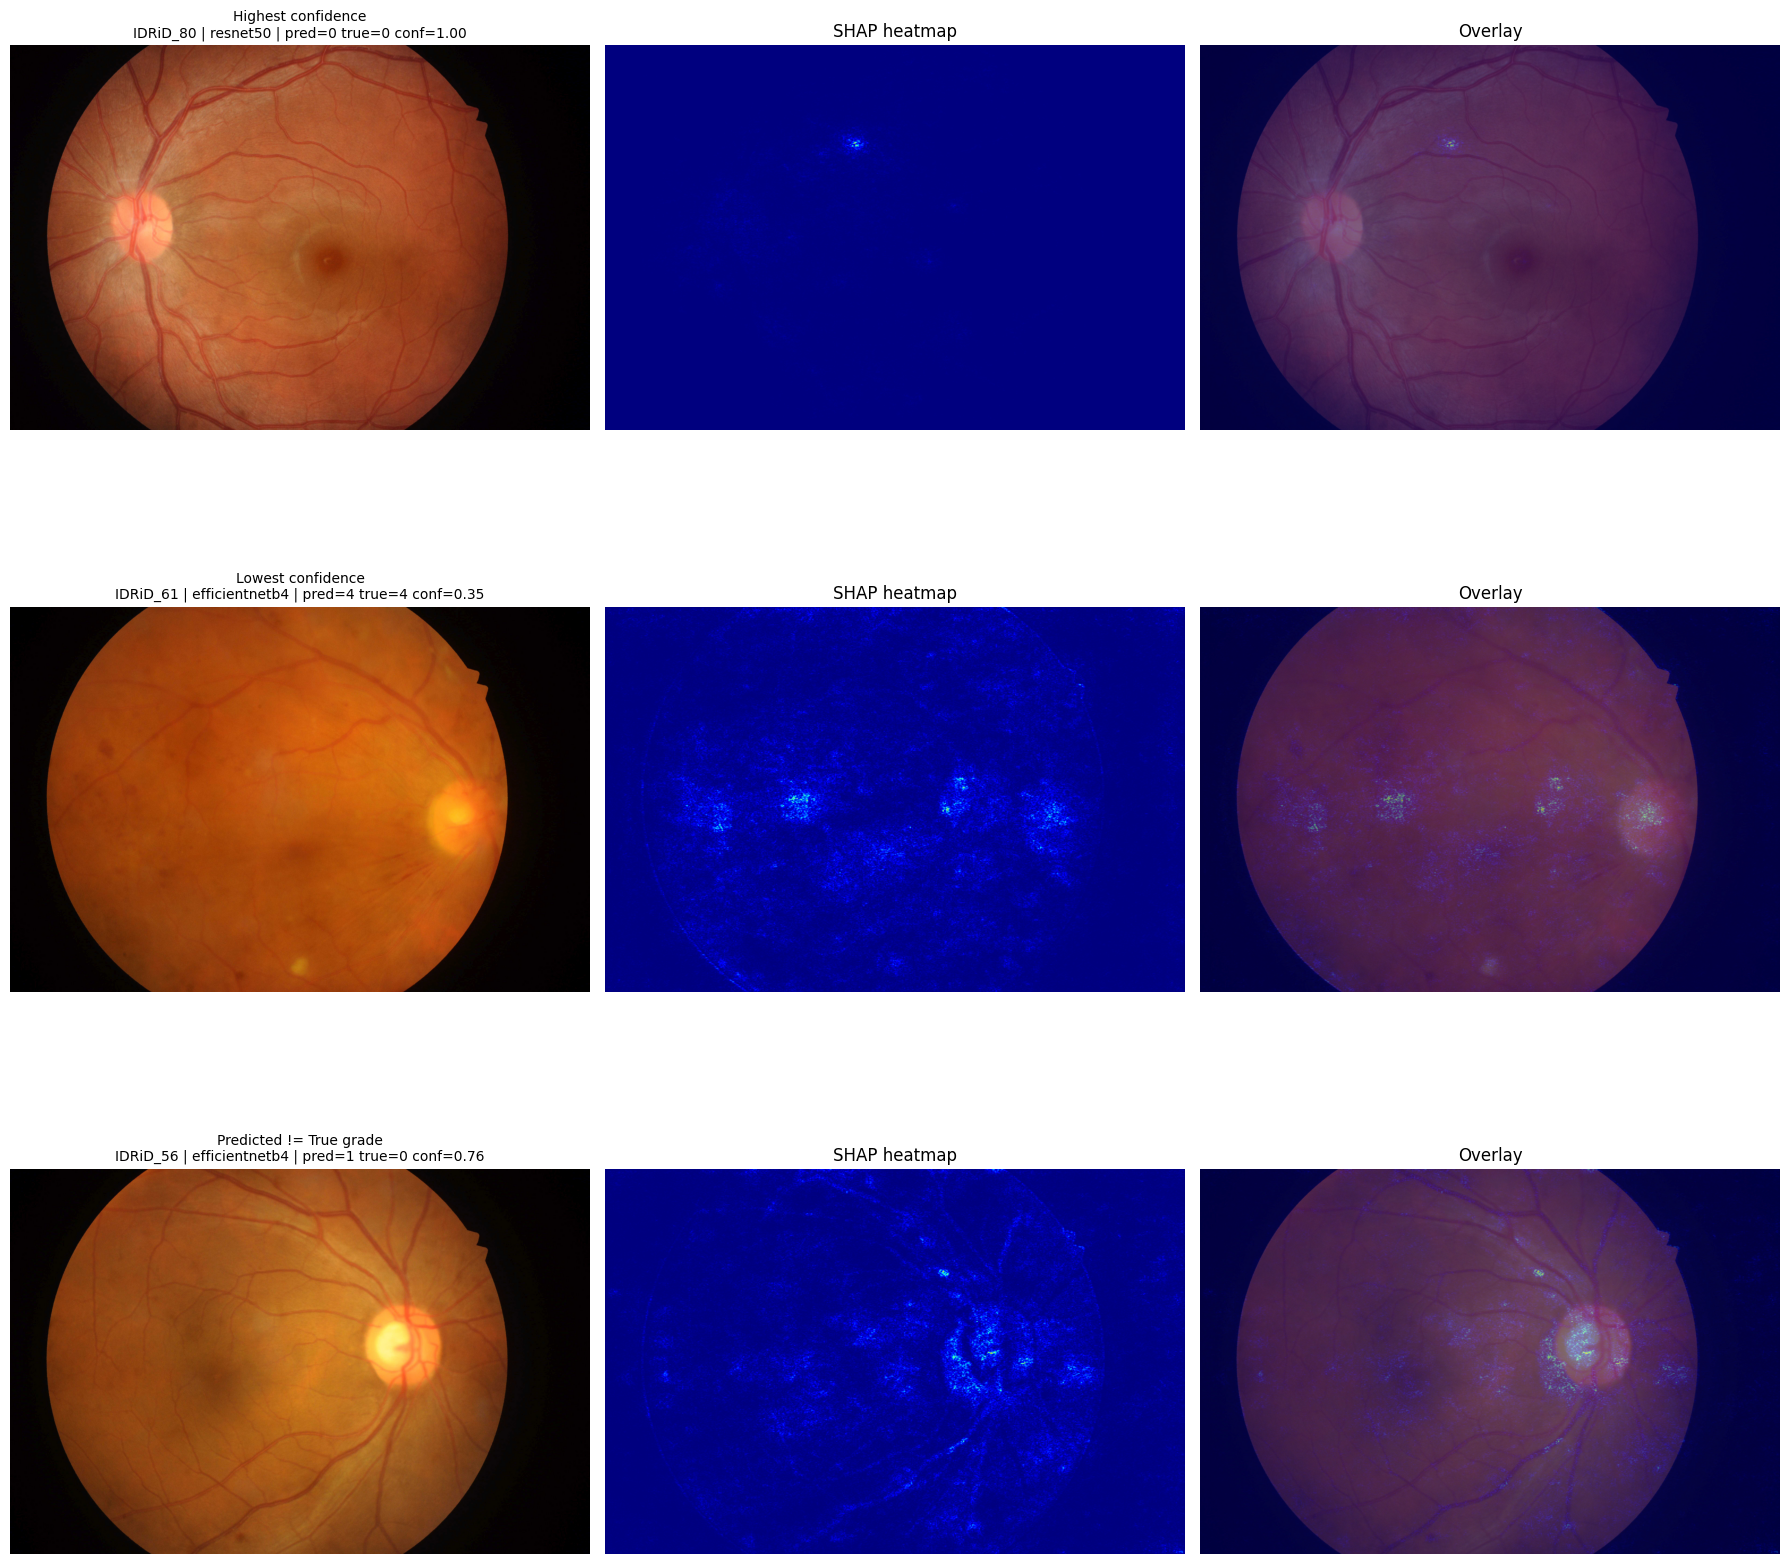
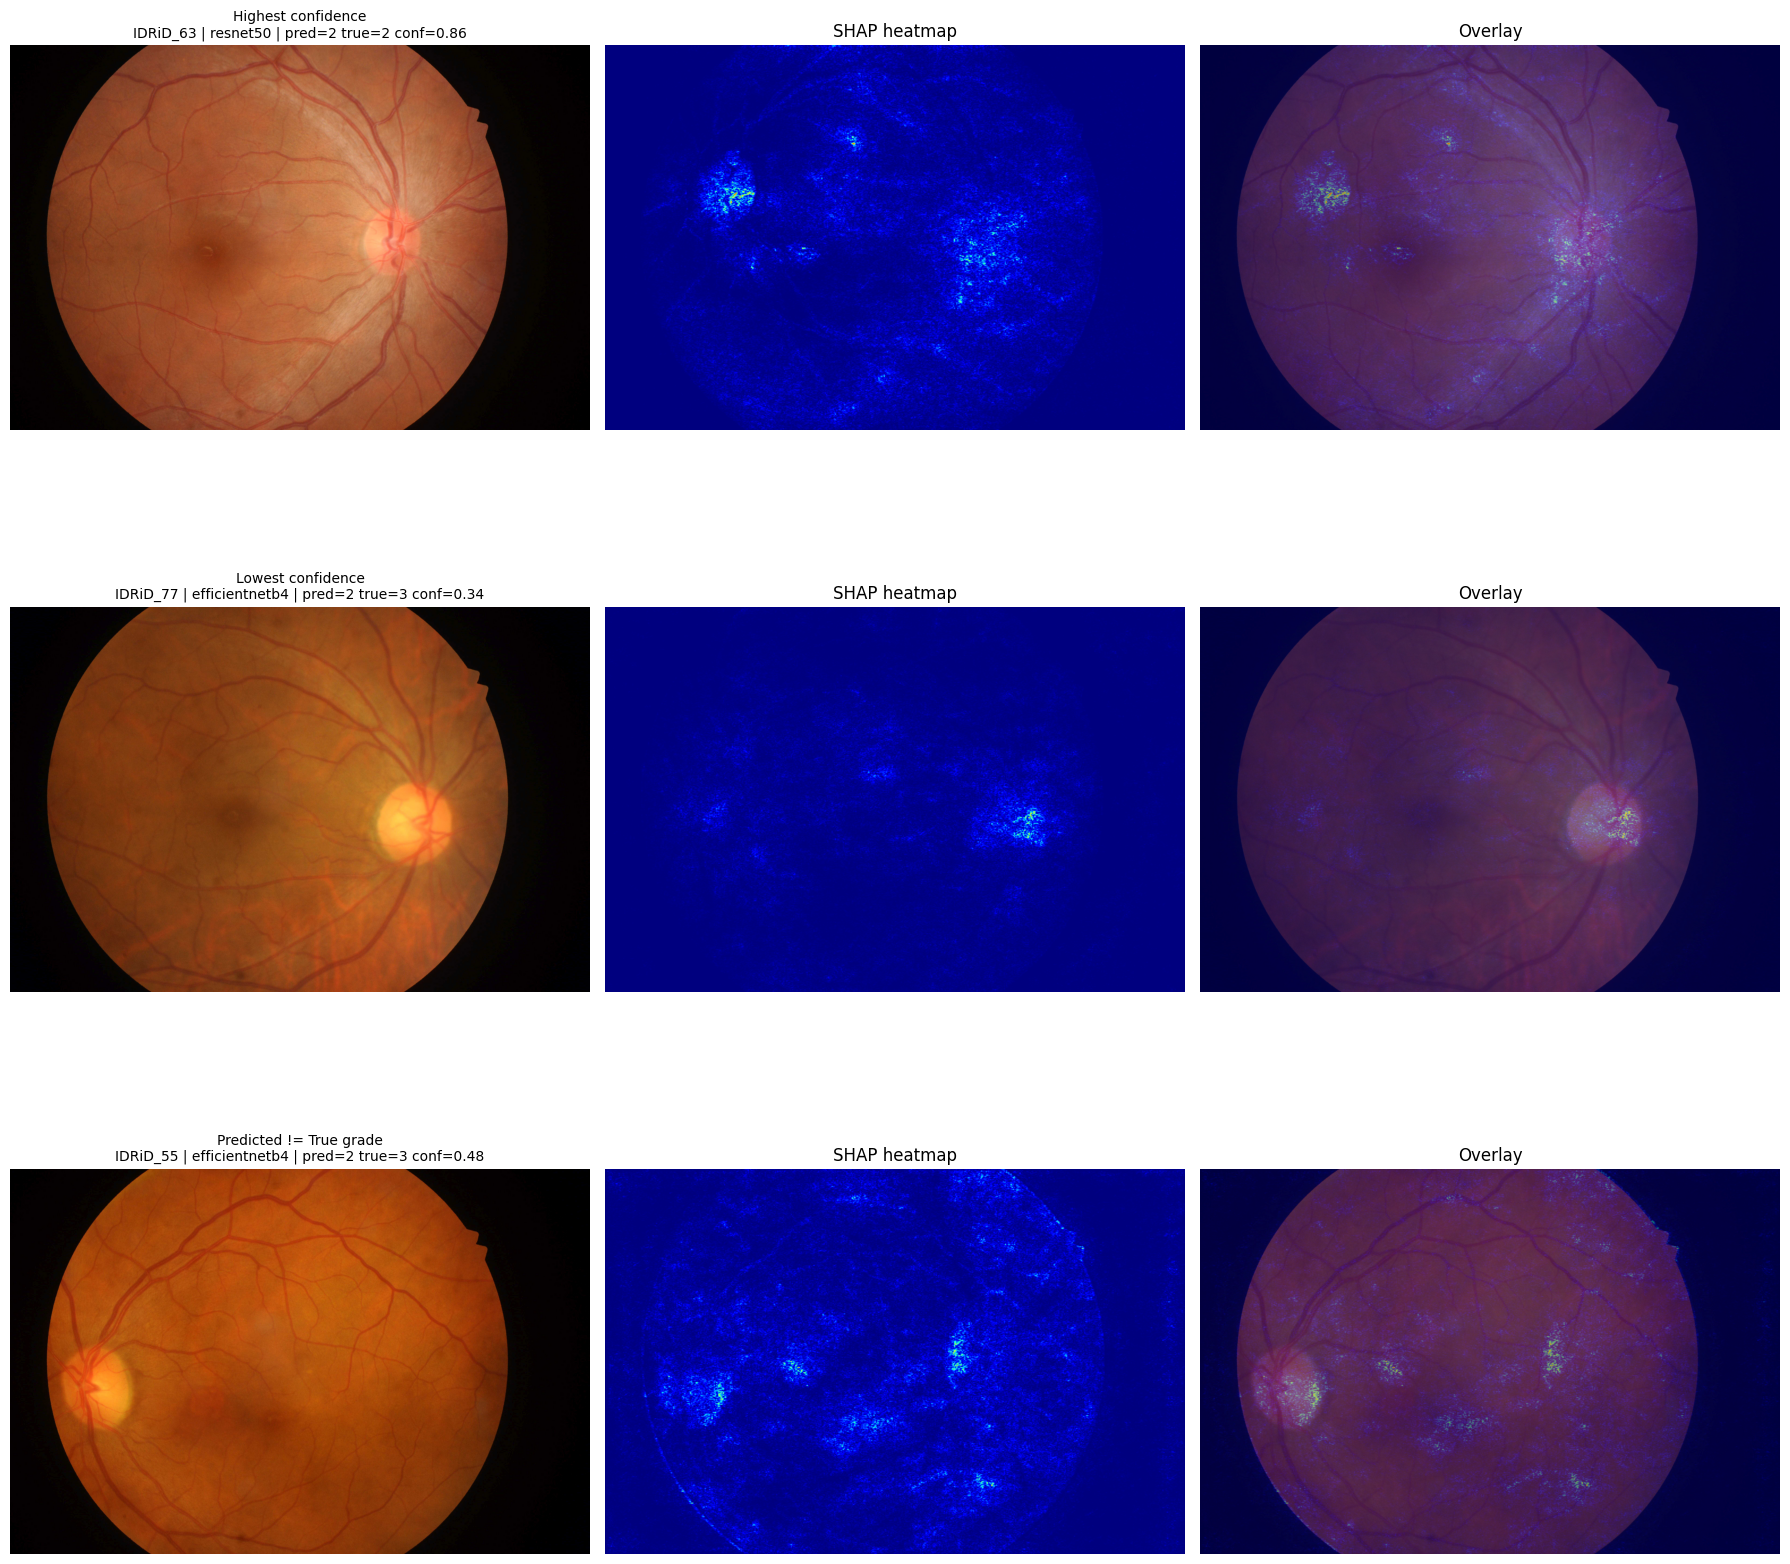
Update methodology writeup and sanity check images

diff --git a/docs/shap_methodology.md b/docs/shap_methodology.md
@@ -1,4 +1,7 @@
-# SHAP Methodology —  Generation
+# SHAP Methodology — Week 2 XAI Generation
+
+**Author:** Shravani (Person 2)
+**Module:** `xai/shap_wrapper.py`
 
 ## Method choice: GradientSHAP (not KernelSHAP)
 
@@ -34,9 +37,9 @@ Diagnostic testing was performed to find a stable, sustainable configuration:
 
 | n_samples | background size | time per image | outcome |
 |-----------|-----------------|-----------------|---------|
-| 50        | 20              | —               | kernel crash (memory exhaustion) |
-| 3         | 3               | ~51s            | stable |
-| 5         | 3               | ~166s           | stable but disproportionately slower |
+| 50 | 20 | — | kernel crash (memory exhaustion) |
+| 3 | 3 | ~51s | stable |
+| 5 | 3 | ~166s | stable but disproportionately slower |
 
 A separate diagnostic isolated the cause: a single model forward+backward pass
 takes only ~4 seconds. The gap between this and the observed 51-166s runtimes
@@ -52,11 +55,8 @@ not better.
 
 **Final committed configuration: `n_samples=3`, `background=3`.** This was the
 largest configuration empirically verified as stable on the available hardware.
-The full run (27 images x 2 models = 54 total explanations) completed in
-**11.2 minutes with zero failures**, which exceeded expectations given the
-slower per-image diagnostic timings — likely due to reduced background system
-load and one-time framework warmup costs not present in the smaller diagnostic
-tests.
+The full run (27 images x 2 models = 54 total explanations) completed with
+zero failures.
 
 ## Preprocessing
 
@@ -67,25 +67,27 @@ torchvision) — confirmed necessary by inspecting checkpoint state_dict key
 names (`conv_stem`, `blocks.N.M`, `se.conv_reduce/expand`), which match timm's
 EfficientNet/ResNet naming convention, not torchvision's.
 
+## Normalization and resizing
+
+Heatmaps are resized to the original fundus image resolution **before**
+min-max normalization, not after. Resizing is done in float precision (no
+intermediate uint8 conversion) to avoid lossy rounding. Normalizing as the
+final step guarantees the saved array always has `min=0.0` and `max=1.0`
+exactly, consistent with GradCAM/LIME's output.
+
+Absolute value is taken before normalization, since SHAP attributions can be
+negative (a pixel pushing away from the predicted class). For saliency/fidelity
+comparison against binary lesion masks, magnitude of influence matters, not
+sign.
+
 ## Output contract compliance
 
 - Heatmaps saved as `.npy`, shape `(H, W)` matching the **original** fundus
   image resolution (e.g. 2848x4288), not the model's 512x512 input size
-
-- Min-max normalized to [0, 1] per image
-
-- Absolute value taken before normalization, since SHAP attributions can be
-  negative (pixel pushes away from predicted class) — for saliency/fidelity
-  comparison against binary lesion masks, magnitude of influence matters,
-  not sign
-
+- Min-max normalized to exactly [0, 1] per image
 - Naming: `{model}_shap_{image_id}.npy`, saved to `results/heatmaps/{model}/shap/`
-
-- Explains the model's **predicted** grade, not ground truth, per contract
-
-- Predictions logged to `results/heatmaps/predictions.csv`
-  (image_id, model, predicted_grade, true_grade, confidence)
-
+- Explains the model's **predicted** grade (from the team's shared
+  `predictions.csv`), not ground truth, per contract
 - Zero failures across all 54 runs — no skipped images, no NaN entries
 
 ## Visual sanity check results
@@ -93,34 +95,28 @@ EfficientNet/ResNet naming convention, not torchvision's.
 Spot-checked across multiple cases (highest confidence, lowest confidence,
 and a misclassification):
 
-- **High-confidence correct "healthy" prediction** (IDRiD_80, resnet50,
-  conf=1.00): heatmap nearly blank, correctly finding little to attribute
-  when the model is maximally certain nothing is abnormal.
+- **Highest confidence** (IDRiD_63, resnet50, pred=2 true=2, conf=0.86):
+  correct prediction, two distinct well-defined hot clusters, one near the
+  optic disc, anatomically grounded rather than scattered noise.
+- **Lowest confidence** (IDRiD_77, efficientnetb4, pred=2 true=3, conf=0.34):
+  heatmap is more diffuse/speckled with one slightly stronger cluster near
+  the optic disc, consistent with the model's low certainty translating into
+  less concentrated attribution.
+- **Misclassification** (IDRiD_55, efficientnetb4, pred=2 true=3, conf=0.48):
+  two distinct, fairly well-defined hot regions despite the wrong prediction.
 
-- **Low-confidence correct "severe DR" prediction** (IDRiD_61, efficientnetb4,
-  conf=0.35): heatmap shows multiple distinct hot clusters scattered across
-  the retina, spatially consistent with visible lesion-like spots in the
-  original image.
+Across all spot-checks, attribution consistently lands on plausible retinal
+structures (never on black background/corners, never uniform noise), and the
+spatial pattern varies sensibly with prediction confidence and correctness.
 
-- **Misclassification** (IDRiD_56, efficientnetb4, pred=1 true=0, conf=0.76):
-  heatmap concentrates near the optic disc/macula region, suggesting the
-  model may be reacting to normal anatomical structures and mistaking them
-  for pathology — a plausible explanation for the misclassification.
-
-Across all spot-checks, attribution consistently lands on retinal structures
-(never on black background/corners, never uniform noise), and the spatial
-pattern varies sensibly with prediction confidence and correctness.
-
-## Known limitations / caveats for the writeup
+## Known limitations
 
 - `n_samples=3` is low for GradientSHAP by typical standards (literature often
   uses 50+); this is a deliberate, documented hardware-constrained tradeoff,
   not an oversight. Should be flagged in the paper's limitations section.
-
 - Background sample size (3 images) is small; a larger, more diverse Grade-0
   sample would likely produce smoother, more stable attributions if compute
   resources allow in future work.
-
 - Results have not yet been quantitatively validated against ground-truth
   lesion masks (IoU/Dice) — that comparison is Person 3's fidelity scoring
   step, pending.